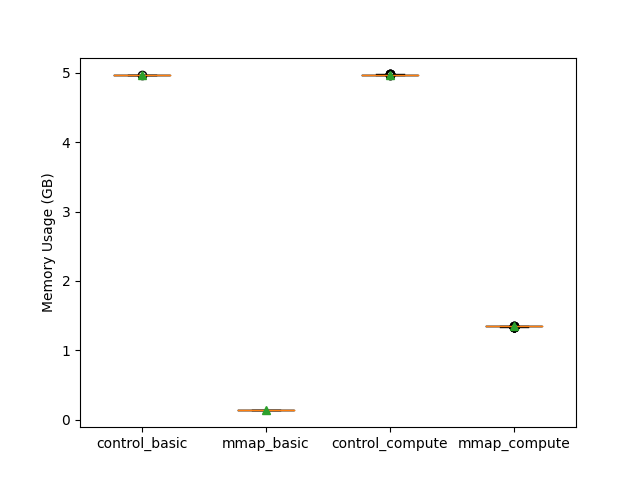
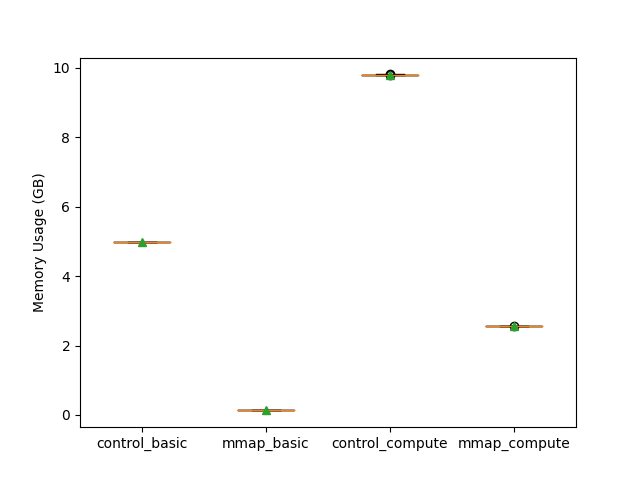
read memory before doing gc
+ commit resulting graph

diff --git a/colbert/tests/mmap_test.py b/colbert/tests/mmap_test.py
@@ -74,13 +74,13 @@ def read_into_buffer(mmap, read_buf_size, q):
         computation = torch.sum(new_buf)
         ts2 = time.time()
 
-        copy_avg = copy_avg + ts1 - rand_time_start
-        calc_avg = calc_avg + ts2 - ts1
+        copy_avg += ts1 - rand_time_start
+        calc_avg += ts2 - ts1
 
+        mem = proc.memory_info().rss
         del new_buf
         gc.collect()
 
-        mem = proc.memory_info().rss
         results_buf.append(mem/B_PER_GB)
 
     copy_avg = copy_avg/NUM_COMPUTE_CYCLES
